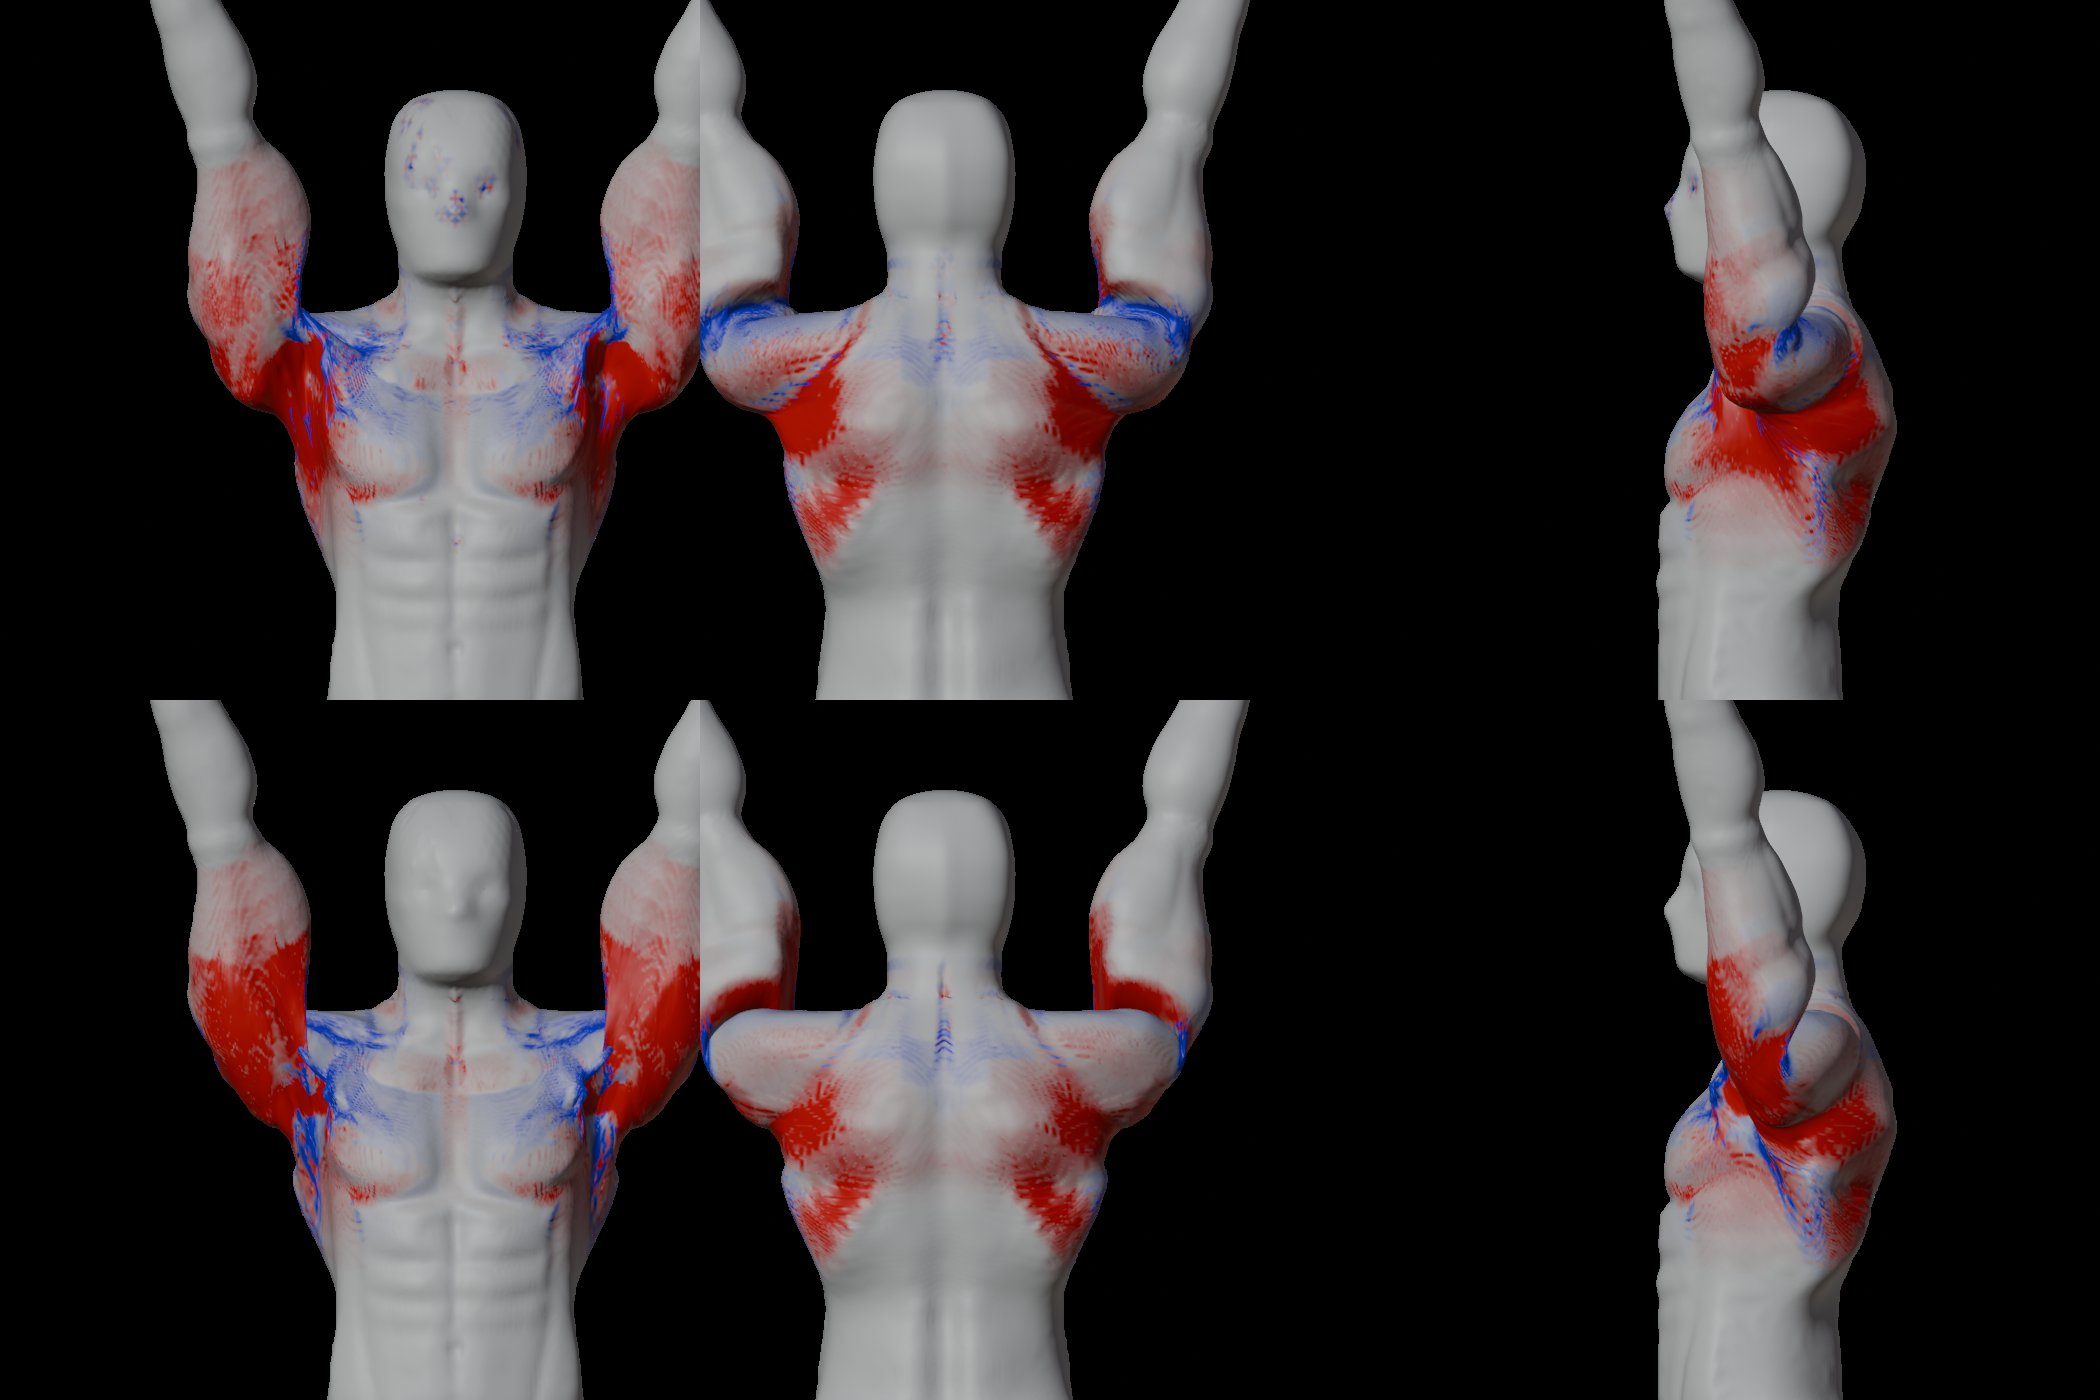
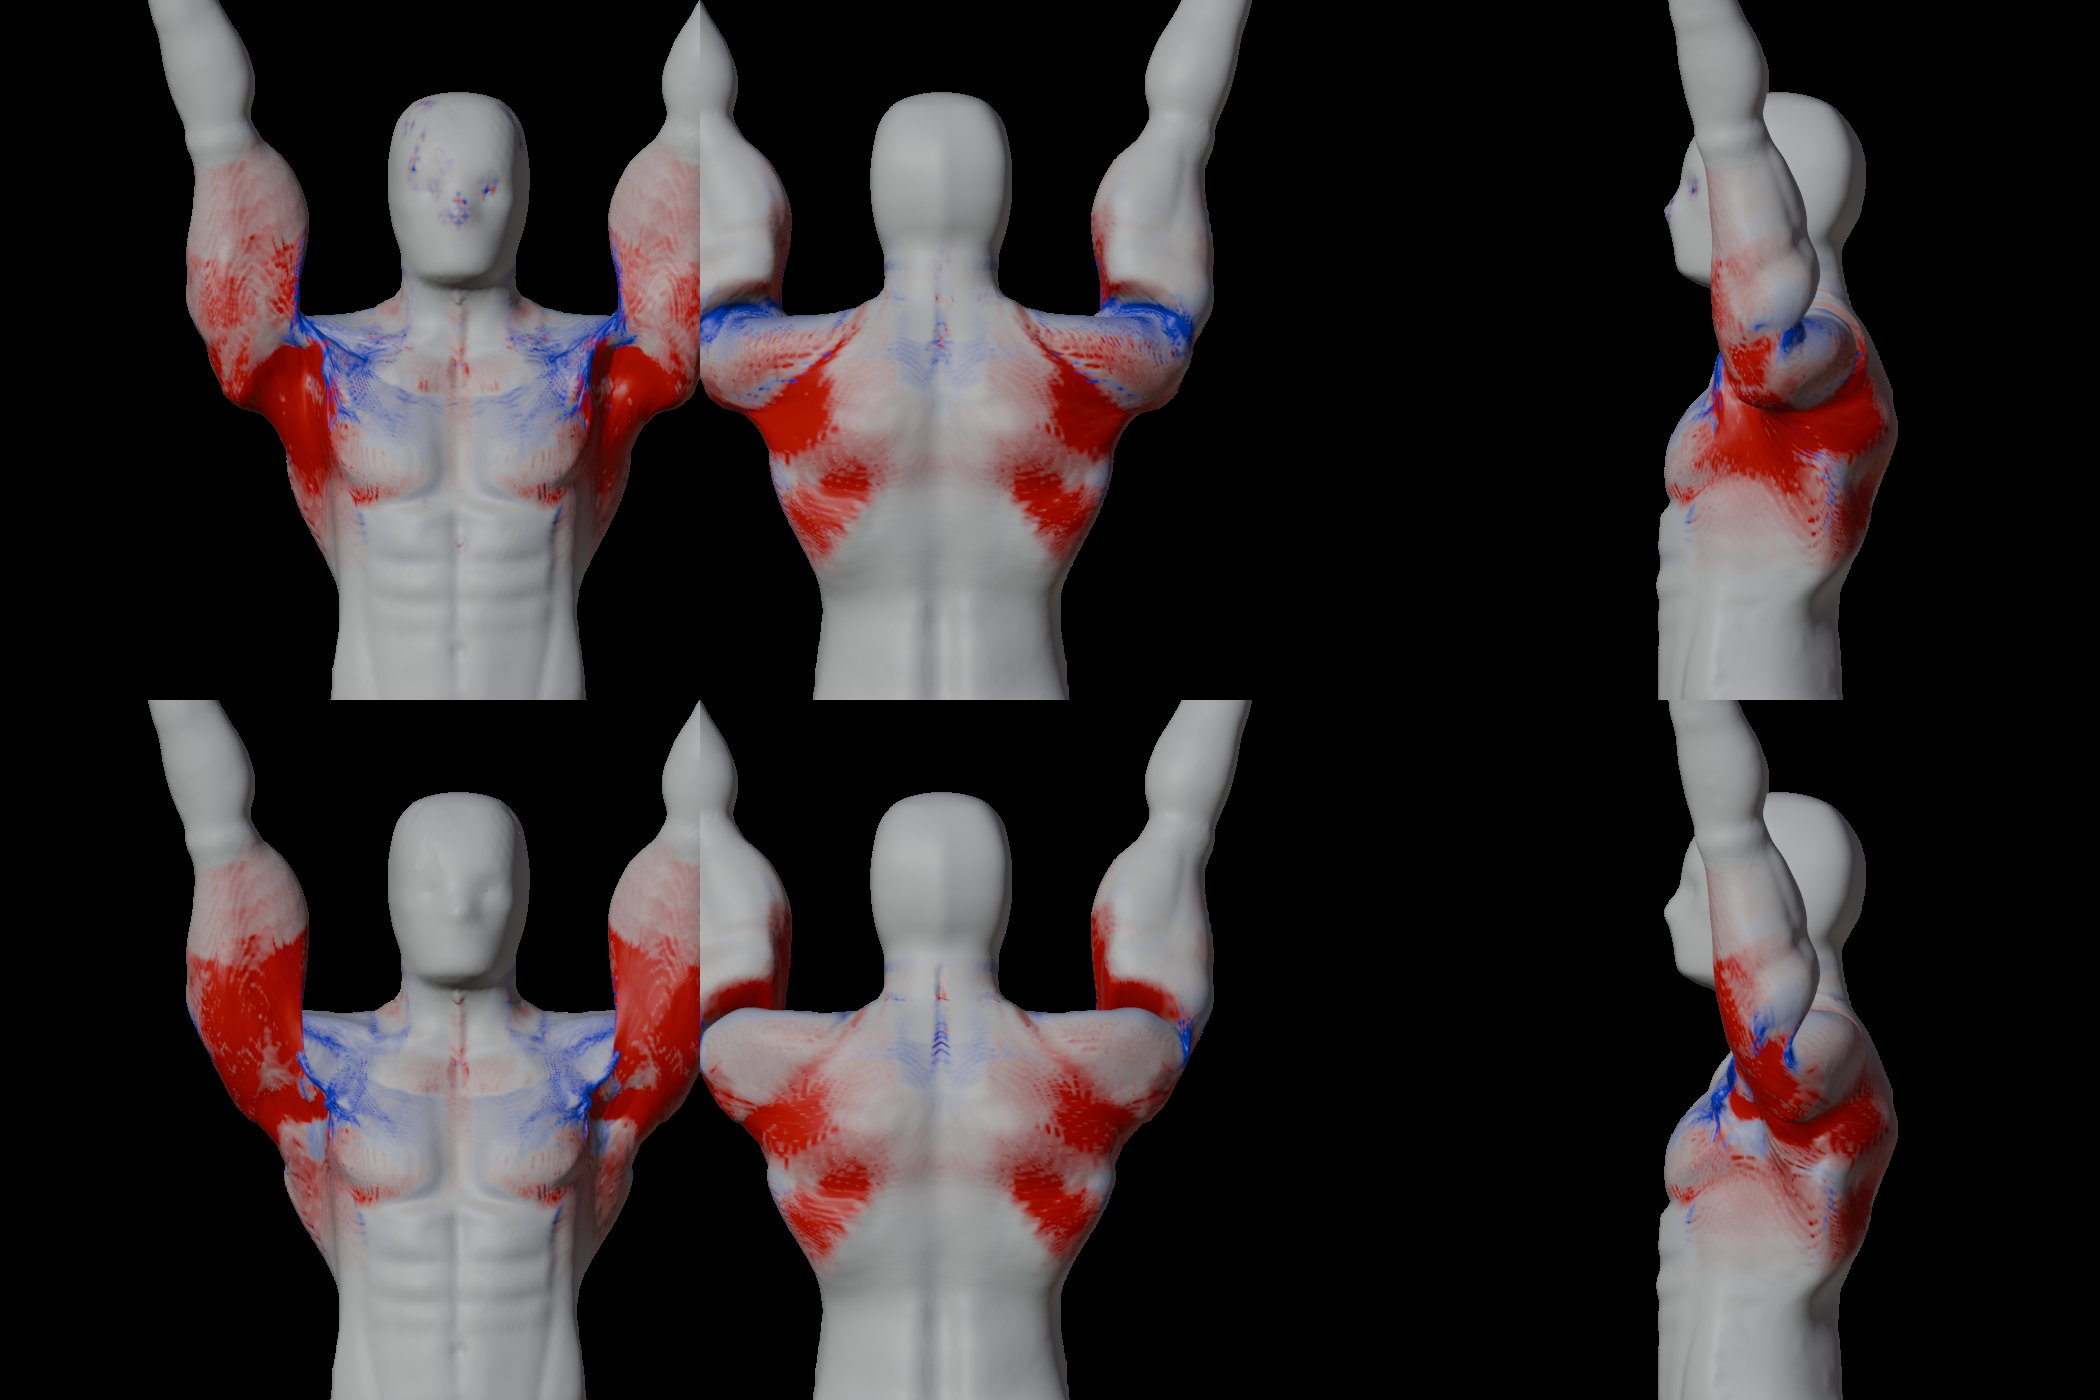
Reports record the girdle frame; S1 diagnostic re-run with the ISB frame (T3 lockout 9041 over 2x, matches T3's table; plain skinning 11,421); prototypes' frame noted; handover: reproduction environment; elbow plane_restore contact mode (proximal side vs whole distal limb), E4 under evaluation
Claude-Session: https://claude.ai/code/session_01EPKohHG29Xe8qKuNMT5Fv9

diff --git a/scripts/body_v2/r121_arm_correctives_blender.py b/scripts/body_v2/r121_arm_correctives_blender.py
@@ -262,7 +262,7 @@ def contact(T, margin=0.0008):
     return out
 
 
-CMODE = os.environ.get("V2_R121_CONTACT_MODE", "plane")    # plane: contact() above; mutual: contact_mutual() below
+CMODE = os.environ.get("V2_R121_CONTACT_MODE", "plane")    # plane: contact() above; mutual / plane_restore: below
 TRI = np.array([(p.vertices[0], p.vertices[k], p.vertices[k + 1]) for p in me.polygons for k in range(1, len(p.vertices) - 1)])
 
 
@@ -316,6 +316,49 @@ def contact_mutual(T, margin=0.0008, iters=int(os.environ.get("V2_R121_CONTACT_I
     return out
 
 
+def contact_plane_restore(T, margin=0.0008, rest_sep=float(os.environ.get("V2_R121_CONTACT_REST_SEP", "0.025"))):
+    """plane contact (robust where the limbs overlap deeply), then every proximal-side vertex it moved goes back towards where it was
+    by the largest fraction (1, 3/4, 1/2, 1/4) that keeps it outside the other side's (contacted) skin - so the flat
+    face shrinks to where the other limb really touches, and the biceps stays round beyond the forearm.  The restore
+    fractions are eroded over two rings (never raised), so restored and contacted skin blend.  In place on T."""
+    from mathutils import Vector as V_
+    from mathutils.bvhtree import BVHTree
+    T0 = T.copy()
+    out = contact(T)
+    moved = np.linalg.norm(T - T0, axis=1) > 1e-7
+    t = np.zeros(n)
+    distal = gsum(*(("forearm", "hand", "thumb", "index", "middle", "ring", "pinky", "metacarpal") if MODE == "elbow"
+                    else ("shin", "foot", "toe", "ball"))) > 0.5
+    for s_ in ("r", "l"):
+        lbn = HINGE[MODE][1]
+        side = np.sign(R0[:, 0]) == (1.0 if rig.data.bones[f"{lbn}_{s_}"].head_local.x > 0 else -1.0)
+        sides = (CONTACT[0] & side, distal & side)          # obstacle: the WHOLE distal limb (at 140 deg the wrist
+        tris = [TRI[sm[TRI].all(1)] for sm in sides]        # reaches the upper biceps, beyond the contact reach)
+        for a_, b_ in ((0, 1),):                           # the proximal side only: restoring both sides against
+            tb = tris[b_]                                   # each other's flattened state let them overlap again
+            if not len(tb):                                 # (measured); the narrower distal side stays covered
+                continue
+            bvh = BVHTree.FromPolygons([V_(p) for p in T], tb.tolist(), all_triangles=True)
+            for i in np.flatnonzero(sides[a_] & moved):
+                for f_ in (1.0, 0.75, 0.5, 0.25):
+                    x = T[i] + f_ * (T0[i] - T[i])
+                    hit = bvh.find_nearest(V_(x), 0.04)
+                    if hit[0] is not None:
+                        dep = float(np.dot(x - np.array(hit[0]), np.array(hit[1])))
+                        tri_ = tb[hit[2]]
+                        if (dep < margin and np.linalg.norm(R0[tri_] - R0[i], axis=1).min() >= rest_sep
+                                and not (hit[3] > 1e-4 and dep > -0.7 * hit[3])):
+                            continue                        # still inside the other side: try a smaller fraction
+                    t[i] = f_
+                    break
+    for _ in range(2):                                         # erode: restored skin next to contact skin blends
+        tt = np.where(moved, t, 1.0)                           # (skin the contact never moved counts as restored)
+        t = np.where(moved, np.minimum(t, (A @ tt) * Dinv), t)
+    T += t[:, None] * (T0 - T)
+    return {"contact": out, "moved": int(moved.sum()), "restored_full": int(((t > 0.99) & moved).sum()),
+            "restored_part": int(((t > 0) & (t <= 0.99) & moved).sum()), "kept": int(((t == 0) & moved).sum())}
+
+
 def set_key(kb, d):
     kb.data.foreach_set("co", (R0 + d).ravel()); me.update()
 
@@ -345,7 +388,8 @@ for ang in ANGLES:
     elev = {s: round(float(measure(rig, s)), 2) for s in ("l", "r")}
     P = evaluated()
     T = P.copy(); hist = []
-    contact_hist = (contact_mutual(T) if CMODE == "mutual" else contact(T)) if CONTACT is not None else None
+    contact_hist = ({"mutual": contact_mutual, "plane_restore": contact_plane_restore}.get(CMODE, contact)(T)
+                    if CONTACT is not None else None)
     # relax: unfold rounds, then a light Laplacian over the folded area (posed space).  V2_R121_ARMKEY_UNFOLD_DEG < 90
     # also flattens broad creases (the shape-preserving de-crumple below keeps them), e.g. the lower-back fold the
     # skinning makes at the squat bottom

diff --git a/scripts/body_v2/lockout_stretch_diag_blender.py b/scripts/body_v2/lockout_stretch_diag_blender.py
@@ -111,7 +111,7 @@ sc.render.engine = "BLENDER_WORKBENCH"; sc.display.shading.light = "STUDIO"; sc.
 sc.render.resolution_x = 700; sc.render.resolution_y = 700
 attr = me.color_attributes.get("HGPT_STRETCH") or me.color_attributes.new("HGPT_STRETCH", "FLOAT_COLOR", "POINT")
 me.color_attributes.active_color = attr
-rep = {"press_ht_deg": HT, "edges": int(EOK.sum())}
+rep = {"press_ht_deg": HT, "girdle_frame": os.environ.get("V2_GIRDLE_FRAME", "plane35"), "edges": int(EOK.sum())}
 for tag, r121, leg in (("lock_all", True, True), ("lock_no_r121", False, True), ("lock_lbs_only", False, False)):
     pose(r121, leg); P = ev()
     L = np.linalg.norm(P[E[:, 0]] - P[E[:, 1]], axis=1)

diff --git a/scripts/body_v2/skin_slide_mvc_prototype_blender.py b/scripts/body_v2/skin_slide_mvc_prototype_blender.py
@@ -225,7 +225,7 @@ def slide(P, free):
     return X, hist
 
 
-rep = {"method": METHOD, "radius_m": RAD, "rounds": ROUNDS, "damping": DAMP, "contact_pin_m": PIN, "rest_rings_with_reflex_angle": bad_ring, "pinned_rest_residual": int((RESID >= 1e-5).sum())}
+rep = {"girdle_frame": os.environ.get("V2_GIRDLE_FRAME", "plane35"), "method": METHOD, "radius_m": RAD, "rounds": ROUNDS, "damping": DAMP, "contact_pin_m": PIN, "rest_rings_with_reflex_angle": bad_ring, "pinned_rest_residual": int((RESID >= 1e-5).sum())}
 bench._reset(rig)
 for kb in me.shape_keys.key_blocks[1:]:
     kb.value = 0.0

diff --git a/scripts/body_v2/movement_trajectory_test_blender.py b/scripts/body_v2/movement_trajectory_test_blender.py
@@ -285,7 +285,8 @@ def metrics(P):
     return out
 
 
-REP = {"source": SRC.name, "r121_drives": USE_R121, "press_girdle": GIRDLE, "frames_per_trajectory": NF, "vertices": n,
+REP = {"source": SRC.name, "r121_drives": USE_R121, "press_girdle": GIRDLE,
+       "girdle_frame": os.environ.get("V2_GIRDLE_FRAME", "plane35"), "frames_per_trajectory": NF, "vertices": n,
        "regions": {k: int(v.sum()) for k, v in REG.items()}, "mirror_partners": int(MOK.sum()), "movements": {}}
 FRAMES = {}
 for mv in MOVES:

diff --git a/docs/R121_MOVEMENT_TRAJECTORIES_20261024.md b/docs/R121_MOVEMENT_TRAJECTORIES_20261024.md
@@ -1054,24 +1054,29 @@ Report: `report_TT_V3_stretch_relief_rejected.json`.
 
 ### Where the stretch is and what causes it
 
-`scripts/body_v2/lockout_stretch_diag_blender.py` (read-only) measures the press lockout (candidate girdle, 160°,
-elbows straight) in three configurations:
+`scripts/body_v2/lockout_stretch_diag_blender.py` (read-only) measures the press lockout (candidate girdle with the ISB
+scapula frame, `V2_GIRDLE_FRAME=isb` as in T3's chain, 160°, elbows straight) in three configurations:
 
 | Lockout | Over 2× | Over 1.5× | Under 0.5× | Max ratio |
 |---|---|---|---|---|
-| All keys (T3) | 8766 | 27,935 | 5691 | 68.9 |
-| Without R121 keys | 8548 | 27,347 | 5113 | 68.9 |
-| Plain skinning (no corrective keys) | 10,736 | 30,399 | 3471 | 55.8 |
+| All keys (T3; matches T3's trajectory table) | 9041 | 28,987 | 5384 | 68.4 |
+| Without R121 keys | 8890 | 28,442 | 4816 | 68.4 |
+| Plain skinning (no corrective keys) | 11,421 | 30,504 | 2990 | 55.6 |
 
 - **The stretch comes from the skinning, not the keys.**
   - The upper-arm and shoulder-cap bones drag the skin of the side chest, lat and lower scapula up with the arm.
-  - The R121 keys add only about 200 stretched edges.
+  - The R121 keys add only about 150 stretched edges.
   - The legacy (non-shoulder) families move some of it from the upper arm onto spine_03 and the back.
 - **Location, all keys:**
-  - stretched: deltoid cap 3699, back side / lat 2871, axilla floor 992, side chest 837;
-  - compressed: deltoid cap 4187, mostly at shoulder_cap and clavicle (skin bunching over the acromion).
-- **Size.** Stretched edges are short at rest (median 1.95 mm against 2.82 mm for all edges). Posed they measure
-  5.5 mm median and 9.9 mm at p95.
+  - stretched: deltoid cap 3764, back side / lat 3034, axilla floor 1030, side chest 695;
+  - compressed: deltoid cap 4158, mostly at shoulder_cap and clavicle (skin bunching over the acromion).
+- **Size.** Stretched edges are short at rest (median about 2 mm against 2.82 mm for all edges). Posed they measure
+  about 5.5 mm median and 10 mm at p95.
+
+**Measurement note.** The slide prototypes below (V4, V5) ran without `V2_GIRDLE_FRAME=isb`, so they use the default
+35° scapular plane, whose lockout gives 8747–8766 over 2×. Each of their tables compares against that same pose, so the
+comparisons hold, but their absolute counts are not T3's. The trajectory test and the diagnostics now record the girdle
+frame in their reports.
 - **The fix has to be a skin slide.** Real skin draws the area the opening axilla needs from a wide surround.
 
 Renders: `lockout_stretch_diag_T3.jpg` (heat maps: red = an adjacent edge at 2× or more, blue = 0.5× or less; top row
@@ -1097,7 +1102,7 @@ all keys, bottom row plain skinning).
 
 **Results at the lockout:**
 
-| | T3 | 3 rounds, full step | 6 rounds, full step | 4 rounds, half step, crease contact pinned |
+| (35° plane frame) | T3 | 3 rounds, full step | 6 rounds, full step | 4 rounds, half step, crease contact pinned |
 |---|---|---|---|---|
 | Over 2× | 8747 | 4606 | 4727 | 4442 |
 | Under 0.5× | 5652 | 3769 | 5666 | 3355 |
@@ -1149,7 +1154,7 @@ order of 10⁴ iterations.
 
 **V4's global field carried out by the guarded walker** (`V2_SLIDE_METHOD=mvcwalk`):
 
-| | T3 | 4 rounds, half step | 8 rounds, full step |
+| (35° plane frame) | T3 | 4 rounds, half step | 8 rounds, full step |
 |---|---|---|---|
 | Over 2× | 8747 | 8040 | 7745 |
 | Folds over 90° | 50 | 93 | 160 |

diff --git a/docs/CLAUDE_MOVEMENT_SYSTEM_HANDOVER_20261024.md b/docs/CLAUDE_MOVEMENT_SYSTEM_HANDOVER_20261024.md
@@ -38,6 +38,14 @@ script in `scripts/body_v2/` and is recorded in the trajectories doc.
    - legacy knee family (K1_KNEE) zeroed;
    - hip, knee and deep-hip families re-authored.
 
+**Reproducing.** Every step of the chain, and every test or diagnostic of it, runs with
+`V2_GIRDLE_FRAME=isb V2_R121_ARMKEY_CRUMPLE=6 V2_R121_ARMKEY_CRUMPLE_DEG=21` exported. The trajectory test also needs
+`V2_TRAJ_GIRDLE=candidate V2_TRAJ_SQUAT_ARMS=forward`.
+
+- Without `V2_GIRDLE_FRAME=isb` the candidate girdle falls back to a 35° scapular plane. The press and raises then
+  measure differently: lockout folds 50 instead of 13, stretched edges 8766 instead of 9041.
+- The reports now record the frame (`girdle_frame`).
+
 All keys are driven by joint angles (`scripts/body_v2/r121_drives.py`), not by exercise. Two movements were never used
 for authoring (the lateral and front raises), and two more were only used for one deep key (the deadlift and lunge);
 they test that the system generalises.
@@ -188,7 +196,7 @@ The flagged muscles:
 ## Open, unblocked (in rough priority)
 
 1. **Press-lockout armpit stretch:** 9041 edges over 2×.
-   - It is the skinning's: there are 10,736 with no corrective keys (`lockout_stretch_diag_blender.py`).
+   - It is the skinning's: there are 11,421 with no corrective keys (`lockout_stretch_diag_blender.py`).
    - The shaded shape is right; it matters once a skin texture is used.
    - Three slide methods were measured and not adopted (above).
    - Next step: a parameter-domain (2D chart) slide, or wider upper-arm weights over the lat and side chest. The weights
